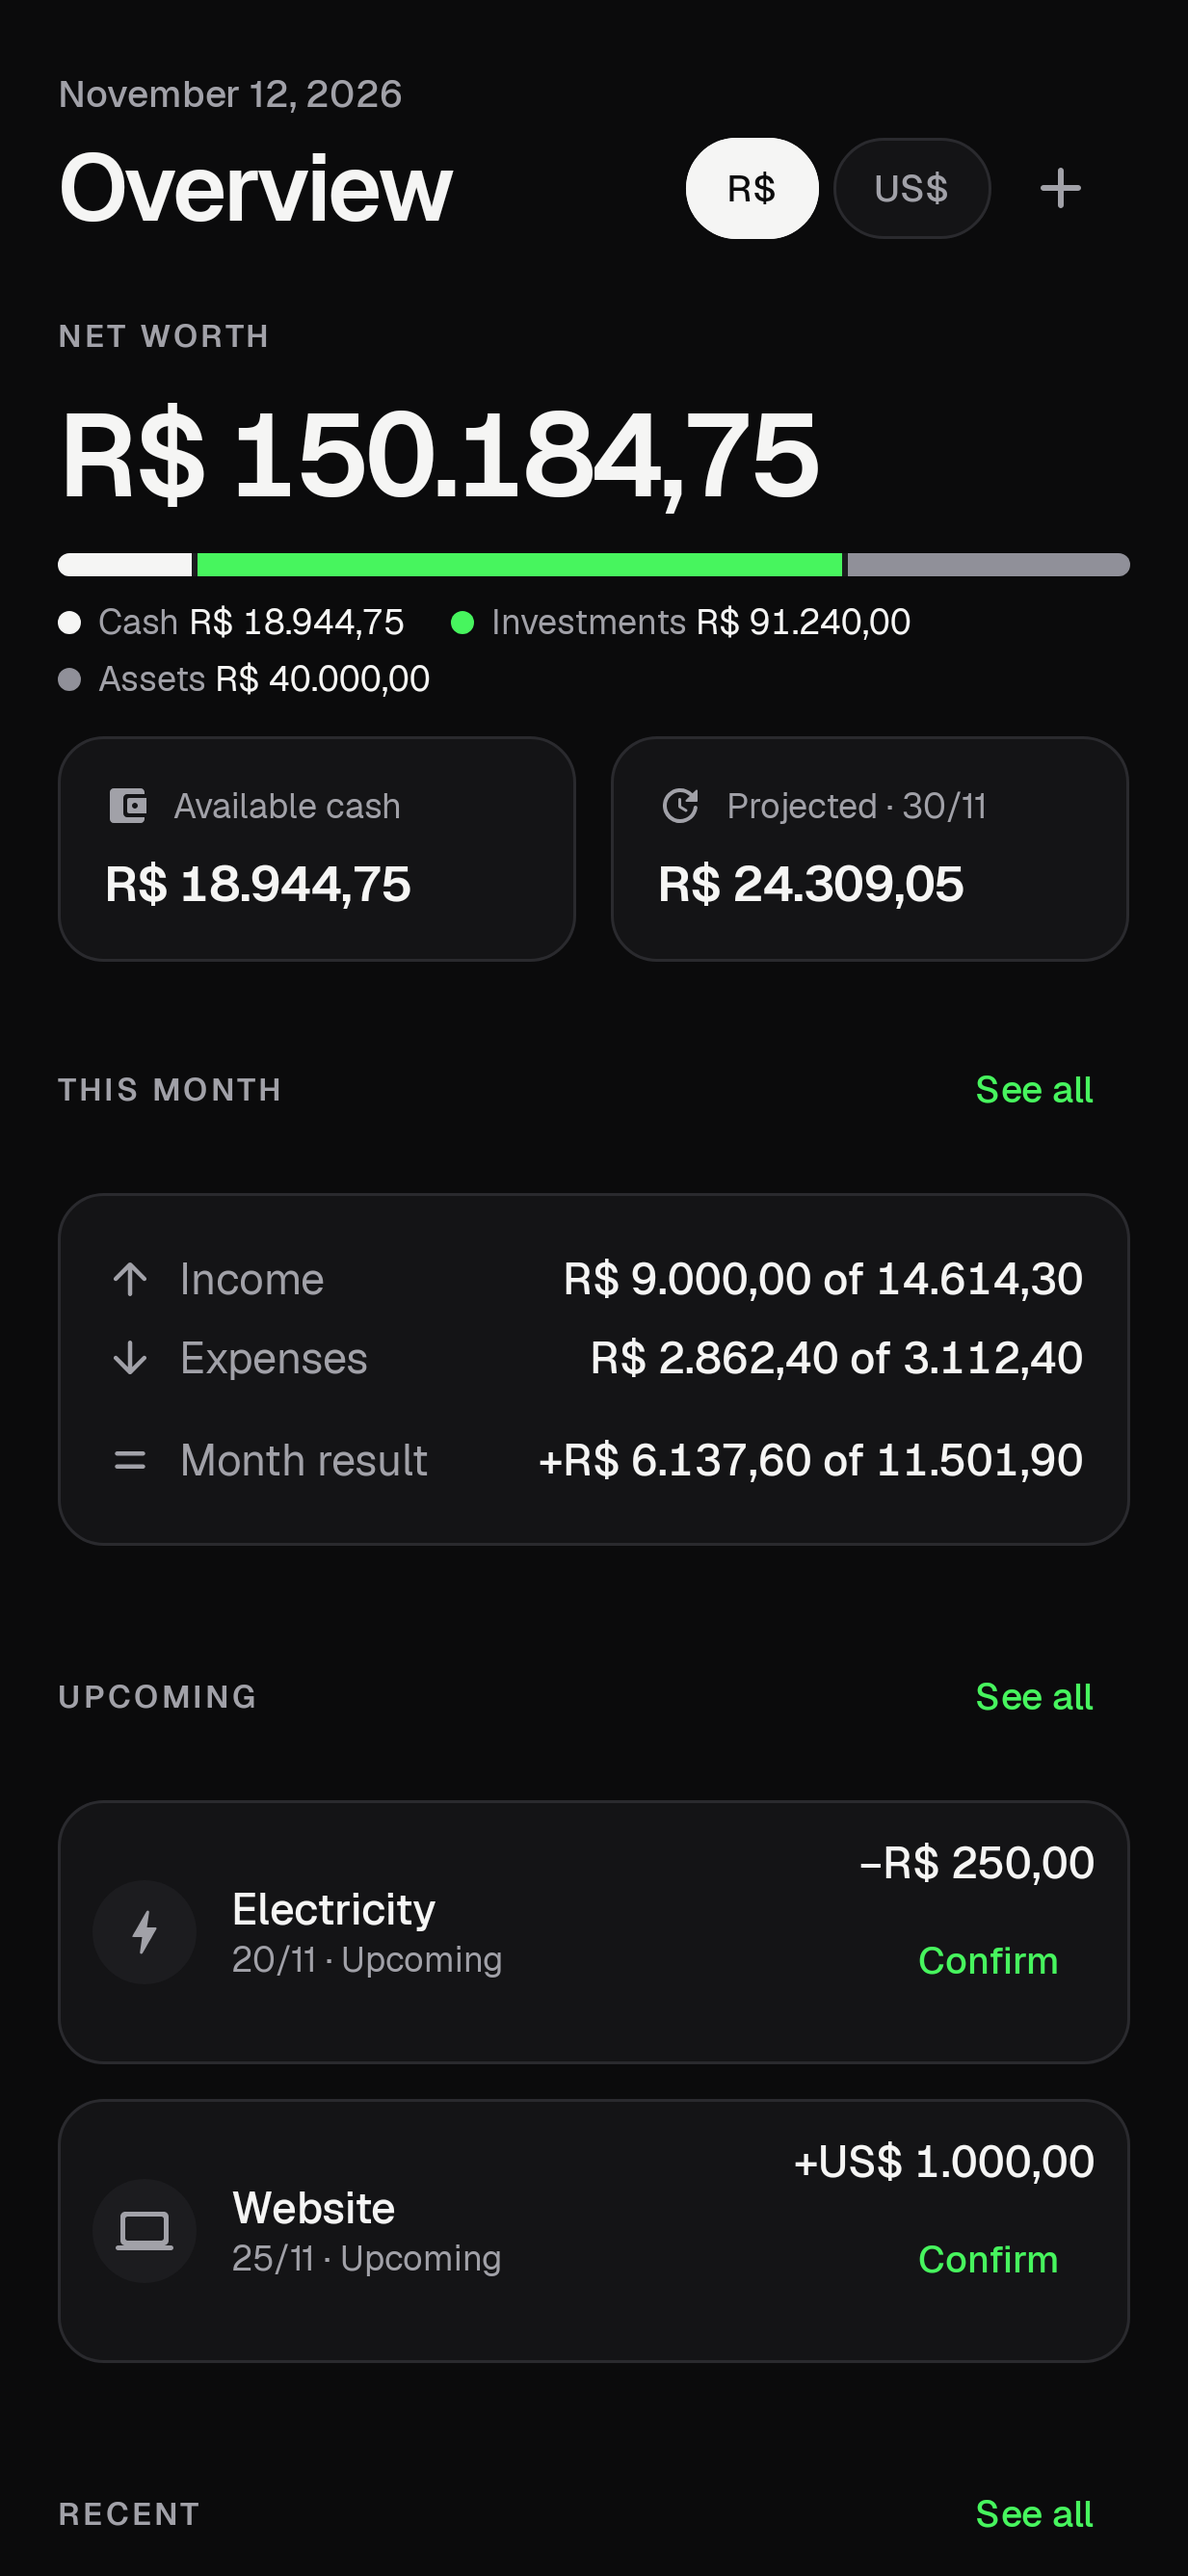
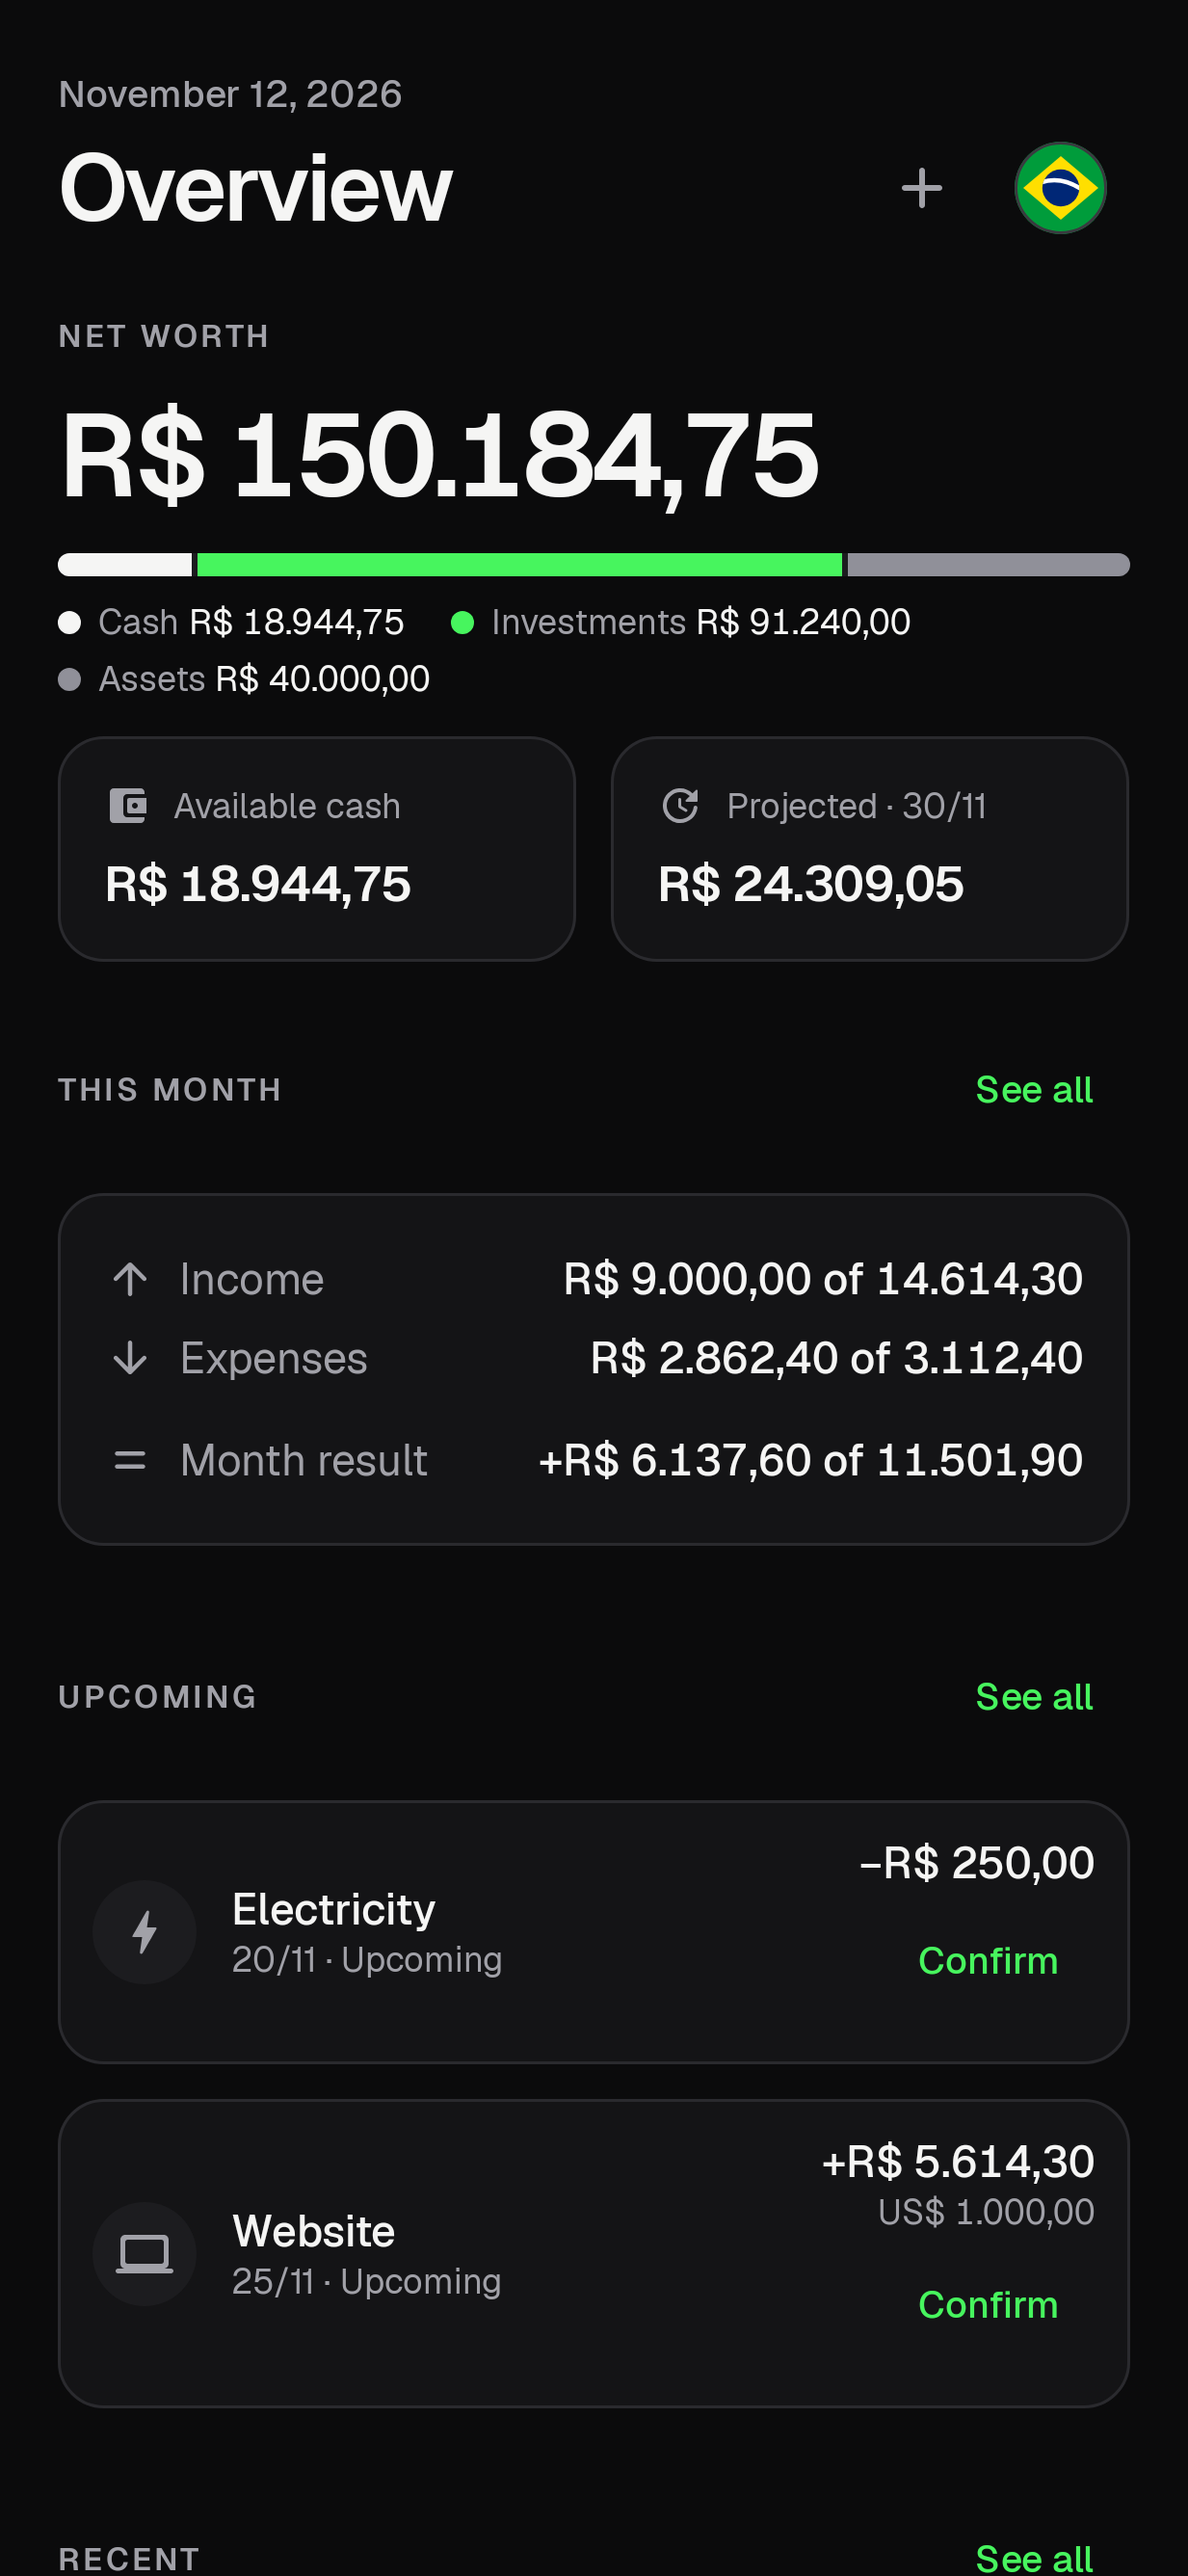
docs: describe the currency flag and refresh the Overview screenshot

diff --git a/README.md b/README.md
@@ -13,10 +13,10 @@ A private, offline-first Android app to manage cash flow, a portfolio of investm
 - **Transfers:** move money between cash and an investment (or back) as a transfer: one-time or recurring, confirmed like a bill, recorded on both sides at once and never counted as income or expense. Contributions, withdrawals and sales on an asset can come from or go to cash, including the initial investment.
 - **History:** every transaction grouped by month, with accent-insensitive search and filters by month, type, status, category, currency and date.
 - **Portfolio:** fixed income, stocks, ETFs, REITs, funds, crypto, business ownership, startup equity, real estate, vehicles, loans receivable and custom categories, with your available cash shown alongside for reference. Contributions, withdrawals, partial sales and closed positions are recorded apart from valuations, which keep their full history. Value, invested, gain/loss and a clearly labelled simple return; an allocation donut you can tap to filter; charts by period (1M, 3M, 6M, 1Y, All) built only from what you recorded.
-- **Net worth:** cash + investments + personal assets, with the composition always visible, in reais or dollars with one tap. A "+" on the Overview adds a transaction or an asset.
-- **BRL and USD:** every transaction, balance and asset has its currency. Totals convert with the official PTAX rate from the Banco Central do Brasil, fetched when you open the app or with *Update*; manual rates work offline. The rate and its date are always shown, and a total that can't be converted is marked instead of guessed.
+- **Net worth:** cash + investments + personal assets, with the composition always visible, in reais or dollars with one tap on the flag. A "+" on the Overview adds a transaction or an asset.
+- **BRL and USD:** every transaction, balance and asset has its currency. Totals and transactions convert to the currency of the flag at the top of the Overview, with the official PTAX rate from the Banco Central do Brasil, fetched when you open the app or with *Update*; manual rates work offline. The rate and its date are always shown, and a total that can't be converted is marked instead of guessed.
 - **Backup:** an encrypted file (AES-256-GCM streaming, key derived from your recovery password) written to a folder you pick and keep in sync with Google Drive (or any cloud) through a sync app. Runs daily and after changes, keeps the last 7, and supports export and restore with integrity checks. CSV export for spreadsheets.
-- **Settings:** opening balances and balance adjustments, categories, default and display currency, number format (1.234,56 or 1,234.56), date format (DD/MM/YYYY or MM/DD/YYYY), dark (default), light or system theme.
+- **Settings:** opening balances and balance adjustments, categories, default and display currency, currencies in use, number format (1.234,56 or 1,234.56), date format (DD/MM/YYYY or MM/DD/YYYY), dark (default), light or system theme.
 
 ## Screenshots
 

diff --git a/docs/ARCHITECTURE.md b/docs/ARCHITECTURE.md
@@ -70,7 +70,7 @@ Conventions (same as MyFit): `id Long` auto-generated; enums stored as TEXT name
 - **Standalone occurrence** = `templateId IS NULL`: one-time transactions, and rows kept after their template was deleted. Only standalone occurrences can be deleted; generated ones are cancelled instead.
 - **Closed asset** = an asset with a FULL_DISPOSAL flow (derived, not stored). New flows and valuations after the disposal date are blocked until the disposal is deleted.
 - Occurrences keep a snapshot of `name`, `kind`, `currency` and `description`, so editing or deleting a template never rewrites history. Category names are referenced, not copied: renaming a category is meant to apply to history.
-- Settings (theme, number and date formats, default and display currency, automatic rate fetching, automatic backup) live in DataStore and travel in the backup's `settings.json`. Rate fetch state (`lastFetchMs`, last error) and backup state live in their own DataStores.
+- Settings (theme, number and date formats, default and display currency, currencies in use, automatic rate fetching, automatic backup) live in DataStore and travel in the backup's `settings.json`. Rate fetch state (`lastFetchMs`, last error) and backup state live in their own DataStores.
 - Images (optional asset photo) live in `filesDir/images/assets/<uuid>.jpg`, EXIF stripped, downscaled to 1600 px (JPEG 85). The database stores only the relative path; paths that escape `images/` never resolve.
 - Schema exported to `app/schemas`. Every change after v1 needs a migration with a `MigrationTest` case. **v2 (1.1.0, transfers):** nullable `categoryId` and `assetId` on templates and occurrences, `occurrenceId` on flows; `MIGRATION_1_2` rebuilds the three tables (SQLite can't change nullability) with foreign keys off, as Room's auto-migrations do, and adds the predefined categories introduced in 1.1.0 (Credit Card and Loans for expenses, Loans Receivable for personal assets). `MigrationTest` builds a v1 database from `1.json`, migrates it and lets Room validate v2.
 - Seeds (`CategorySeed`) insert the predefined categories on database creation, with stable `seedKey`s frozen in `app/src/test/resources/seed-keys.txt`. A predefined category that was never renamed has `name = NULL` and is shown with the localized string for its `seedKey` (English or Portuguese); renaming stores the user's text. Backups keep `NULL`; CSV export resolves it to the English seed name.

diff --git a/docs/TESTING.md b/docs/TESTING.md
@@ -59,6 +59,7 @@ Development is done without a device. The items below validate what only the dev
 - [ ] In airplane mode the app keeps working with the last rate; a manual rate can be entered and is used.
 - [ ] Turning off *Fetch exchange rates* stops automatic requests.
 - [ ] With the app closed for a day, opening it fetches the new rate (there is no background job).
+- [ ] With US$ shown, a R$ transaction in Overview, Cash Flow and History shows the converted amount and "R$ …" underneath; a transaction before the first known rate keeps its own amount.
 
 ### 5. Portfolio
 - [ ] Create "Tesouro Selic" (Fixed Income, BRL) with R$ 5.000,00 invested; then update its value to R$ 5.120,00: gain R$ 120,00, return 2,40%.
@@ -78,7 +79,8 @@ Development is done without a device. The items below validate what only the dev
 - [ ] Portfolio → All shows "Cash" (slice and card); tapping the card opens Cash Flow; Value/Invested/Gain don't include it.
 
 ### 6. Overview
-- [ ] Net worth = cash + investments + personal assets, with the composition shown; the R$/US$ toggle converts everything and shows the rate date.
+- [ ] Net worth = cash + investments + personal assets, with the composition shown; tapping the flag in the header (right of "+") switches Brazil ⇄ USA, converts everything and shows the rate date.
+- [ ] *Settings → Currency → Currencies in use*: turn US$ off: the flag stays on Brazil and a tap does nothing; the last switch on can't be turned off. Turn US$ back on.
 - [ ] Upcoming commitments (overdue and this month only) can be confirmed from the Overview.
 
 ### 7. Backup
